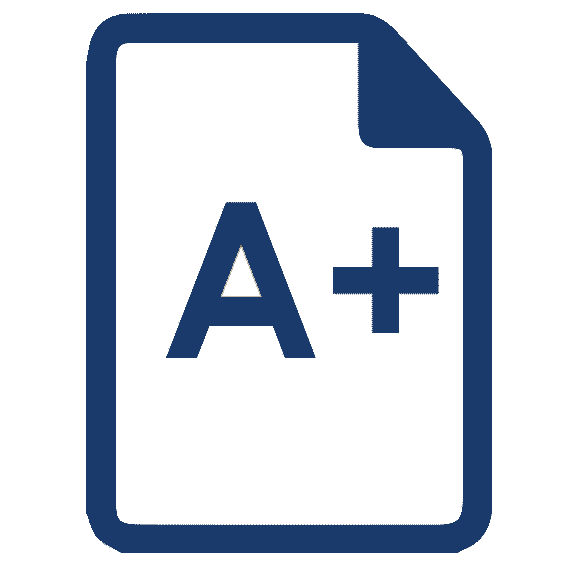
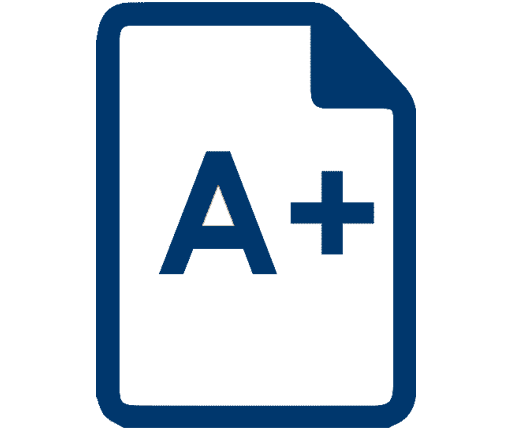
ajuste imagenes

diff --git a/css/main.css b/css/main.css
@@ -16,10 +16,10 @@ body {
 }
 
 
-@font-face {
+/*@font-face {
 	font-family: "RusselSquare";
 	src: url("../fonts/RussellSquare.ttf");
-}
+}*/
 
 
 .menu-fixed{ /*controla la posicion del nav*/

diff --git a/view/docente/panel.php b/view/docente/panel.php
@@ -42,7 +42,7 @@
                                 <a class="mt-3 text-black" href="#"><b>Calificaciones</b></a>
                                 <a href="#" class="card-body">
                                     <div class="input-group">
-                                        <img class="" width="50%" src="img/icon_panel/calificaciones.png" alt="">
+                                        <img class="" width="60%" src="img/icon_panel/calificaciones.png" alt="">
                                         <p class="display-4 ml-1">10</p>
                                     </div>
                                 </a>
@@ -53,7 +53,7 @@
                                 <a class="mt-3 text-black" href="#"><b>Materias</b></a>
                                 <a href="#" class="card-body">
                                     <div class="input-group">
-                                        <img class="" width="70%" src="img/icon_panel/materias.png" alt="">
+                                        <img class="" width="60%" src="img/icon_panel/materias.png" alt="">
                                         <p class="display-4 ml-1">9</p>
                                     </div>
                                 </a>
@@ -64,7 +64,7 @@
                                 <a class="mt-3 text-black" href="#"><b>Exámenes</b></a>
                                 <a href="#" class="card-body">
                                     <div class="input-group">
-                                        <img width="50%" src="img/icon_panel/examen.png" alt="" srcset="">
+                                        <img width="60%" src="img/icon_panel/examen.png" alt="" srcset="">
                                         <p class="display-4 ml-1">3</p>
                                     </div>
                                 </a>
@@ -75,7 +75,7 @@
                                 <a class="mt-3 text-black" href="#"><b>Semestre</b></a>
                                 <a href="#" class="card-body">
                                     <div class="input-group">
-                                        <img class="" width="43%" src="img/icon_panel/semestre.png" alt="">
+                                        <img class="" width="60%" src="img/icon_panel/semestre.png" alt="">
                                         <p class="display-4 ml-1">12</p>
                                     </div>
                                 </a>
@@ -86,7 +86,7 @@
                                 <a class="mt-3 text-black" href="#"><b>Alumnos</b></a>
                                 <a href="#" class="card-body">
                                     <div class="input-group">
-                                        <img width="49%" src="img/icon_panel/alumno.png" alt="">
+                                        <img width="60%" src="img/icon_panel/alumno.png" alt="">
                                         <p class="display-4 ml-1">5</p>
                                     </div>
                                 </a>
@@ -97,7 +97,7 @@
                                 <a class="mt-3 text-black" href="#"><b>Archivos totales</b></a>
                                 <a href="#" class="card-body">
                                     <div class="input-group">
-                                        <img width="49%" src="img/icon_panel/archivos.png" alt="">
+                                        <img width="60%" src="img/icon_panel/archivos.png" alt="">
                                         <p class="display-4 ml-1">5</p>
                                     </div>
                                 </a>

diff --git a/view/alumno/panel.php b/view/alumno/panel.php
@@ -42,7 +42,7 @@
                                 <a class="mt-3 text-black" href="#"><b>Calificaciones</b></a>
                                 <a href="#" class="card-body">
                                     <div class="input-group">
-                                        <img class="" width="50%" src="img/icon_panel/calificaciones.png" alt="">
+                                        <img class="" width="60%" src="img/icon_panel/calificaciones.png" alt="">
                                         <p class="display-4 ml-1">10</p>
                                     </div>
                                 </a>
@@ -53,7 +53,7 @@
                                 <a class="mt-3 text-black" href="#"><b>Materias</b></a>
                                 <a href="#" class="card-body">
                                     <div class="input-group">
-                                        <img class="" width="70%" src="img/icon_panel/materias.png" alt="">
+                                        <img class="" width="60%" src="img/icon_panel/materias.png" alt="">
                                         <p class="display-4 ml-1">9</p>
                                     </div>
                                 </a>
@@ -64,7 +64,7 @@
                                 <a class="mt-3 text-black" href="#"><b>Exámenes</b></a>
                                 <a href="#" class="card-body">
                                     <div class="input-group">
-                                        <img width="50%" src="img/icon_panel/examen.png" alt="" srcset="">
+                                        <img width="60%" src="img/icon_panel/examen.png" alt="" srcset="">
                                         <p class="display-4 ml-1">3</p>
                                     </div>
                                 </a>
@@ -75,7 +75,7 @@
                                 <a class="mt-3 text-black" href="#"><b>Semestre</b></a>
                                 <a href="#" class="card-body">
                                     <div class="input-group">
-                                        <img class="" width="43%" src="img/icon_panel/semestre.png" alt="">
+                                        <img class="" width="60%" src="img/icon_panel/semestre.png" alt="">
                                         <p class="display-4 ml-1">12</p>
                                     </div>
                                 </a>
@@ -86,7 +86,7 @@
                                 <a class="mt-3 text-black" href="#"><b>Archivos totales</b></a>
                                 <a href="#" class="card-body">
                                     <div class="input-group">
-                                        <img width="49%" src="img/icon_panel/archivos.png" alt="">
+                                        <img width="60%" src="img/icon_panel/archivos.png" alt="">
                                         <p class="display-4 ml-1">5</p>
                                     </div>
                                 </a>

diff --git a/view/admin/panel.php b/view/admin/panel.php
@@ -42,7 +42,7 @@
                                 <a class="mt-3 text-black" href="#"><b>Docentes</b></a>
                                 <a href="#" class="card-body">
                                     <div class="input-group">
-                                        <img class="" width="50%" src="img/icon_panel/docente.png" alt="">
+                                        <img class="" width="60%" src="img/icon_panel/docente.png" alt="">
                                         <p class="display-4 ml-1">10</p>
                                     </div>
                                 </a>
@@ -53,7 +53,7 @@
                                 <a class="mt-3 text-black" href="#"><b>Materias</b></a>
                                 <a href="#" class="card-body">
                                     <div class="input-group">
-                                        <img class="" width="70%" src="img/icon_panel/materias.png" alt="">
+                                        <img class="" width="60%" src="img/icon_panel/materias.png" alt="">
                                         <p class="display-4 ml-1">9</p>
                                     </div>
                                 </a>
@@ -64,7 +64,7 @@
                                 <a class="mt-3 text-black" href="#"><b>Usuarios Activos</b></a>
                                 <a href="#" class="card-body">
                                     <div class="input-group">
-                                        <img width="48%" src="img/icon_panel/usuarios.png" alt="" srcset="">
+                                        <img width="60%" src="img/icon_panel/usuarios.png" alt="" srcset="">
                                         <p class="display-4 ml-1">3</p>
                                     </div>
                                 </a>
@@ -75,7 +75,7 @@
                                 <a class="mt-3 text-black" href="#"><b>Semestre</b></a>
                                 <a href="#" class="card-body">
                                     <div class="input-group">
-                                        <img class="" width="43%" src="img/icon_panel/semestre.png" alt="">
+                                        <img class="" width="60%" src="img/icon_panel/semestre.png" alt="">
                                         <p class="display-4 ml-1">12</p>
                                     </div>
                                 </a>
@@ -86,7 +86,7 @@
                                 <a class="mt-3 text-black" href="#"><b>Alumnos</b></a>
                                 <a href="#" class="card-body">
                                     <div class="input-group">
-                                        <img width="49%" src="img/icon_panel/alumno.png" alt="">
+                                        <img width="60%" src="img/icon_panel/alumno.png" alt="">
                                         <p class="display-4 ml-1">5</p>
                                     </div>
                                 </a>
